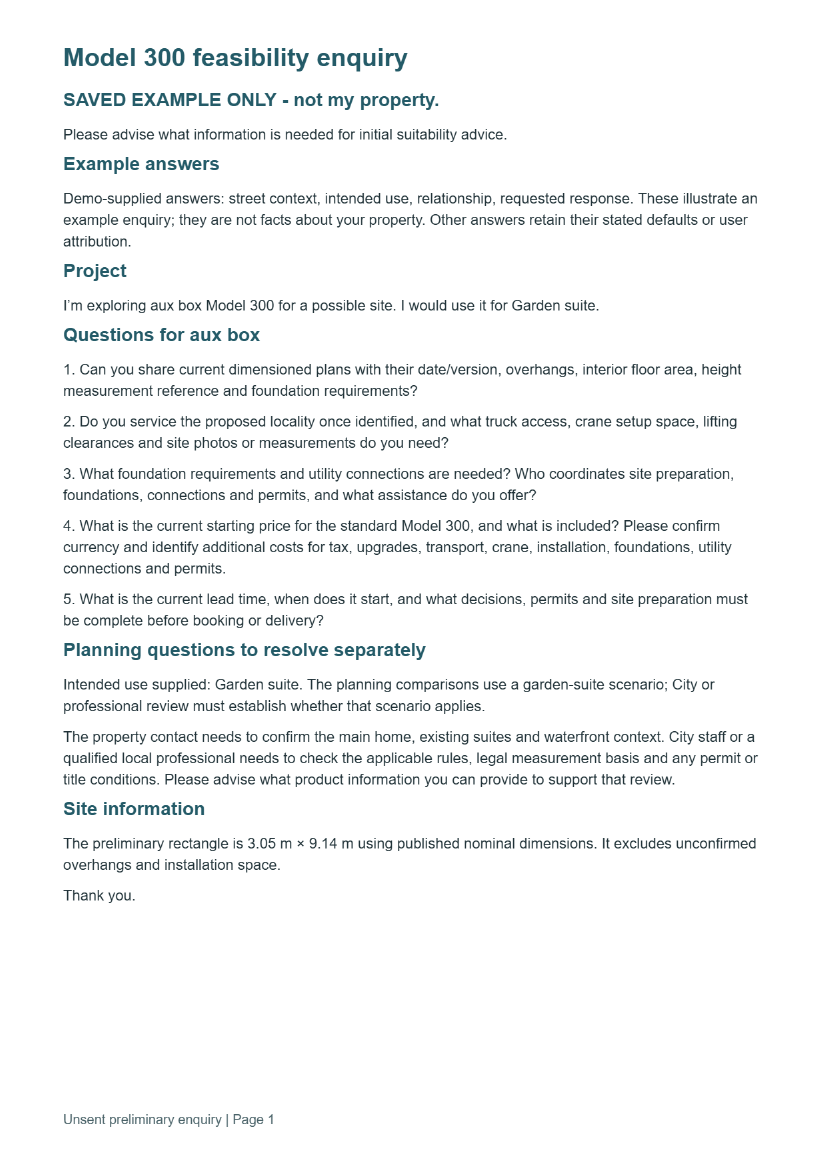
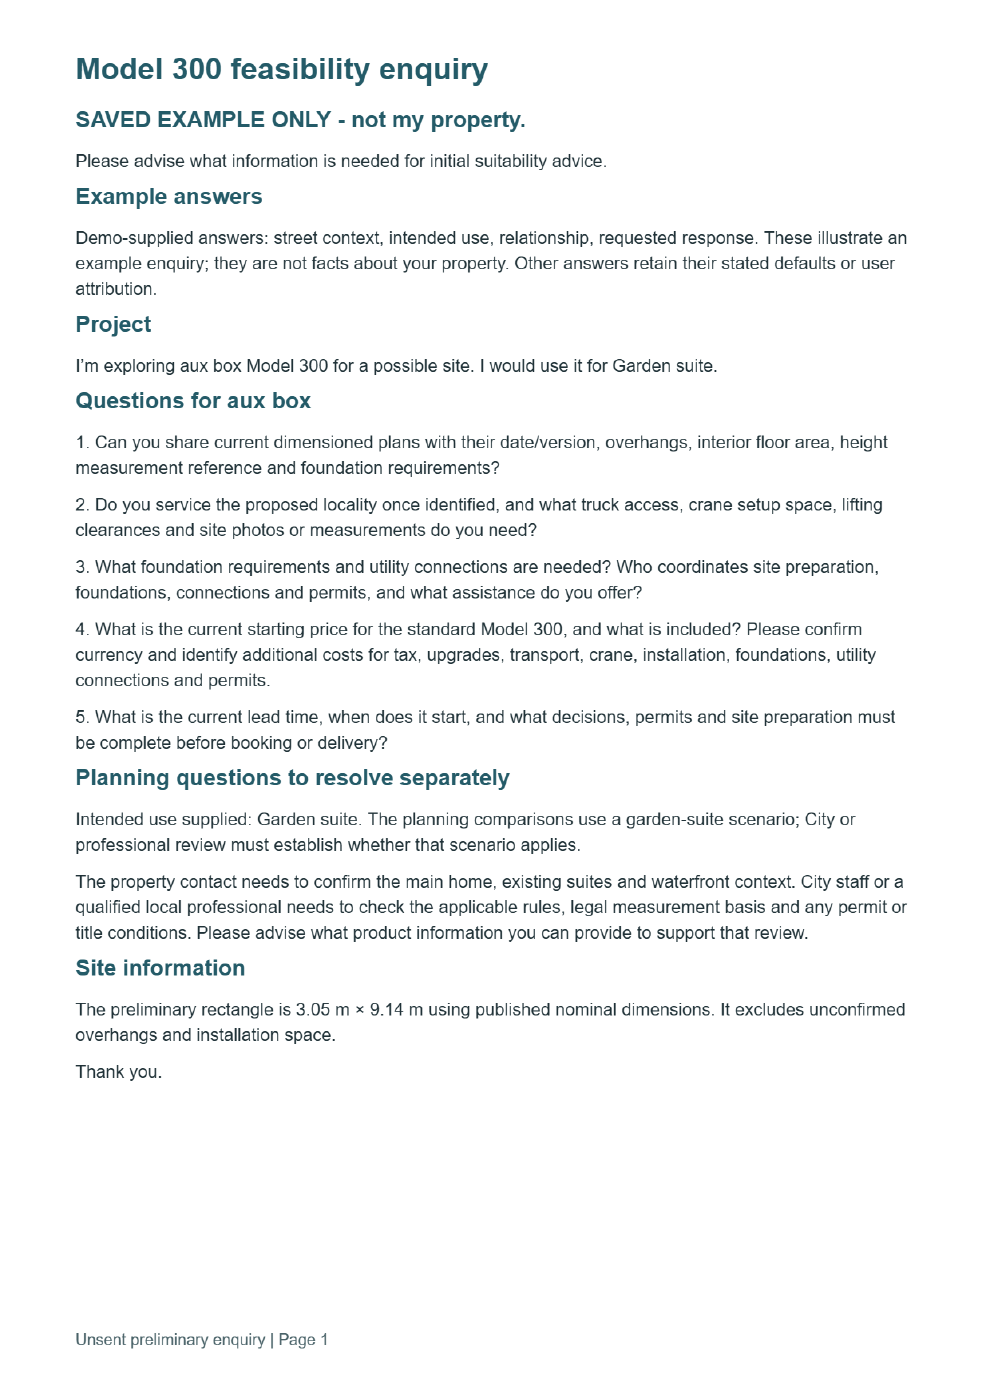
Preserve example attribution across takeover and incomplete measurements

diff --git a/frontend/src/builder_demo/BuilderDemo.tsx b/frontend/src/builder_demo/BuilderDemo.tsx
@@ -248,7 +248,7 @@ export default function BuilderDemo({ onProgressChange, presetRequest = 0, entry
   const [demoAnswers, setDemoAnswers] = useState<EnquiryInput['demoAnswers']>({})
   function clearDemoAnswer(key: 'intendedUse' | 'relationship' | 'nextStep' | 'streetContext') { setDemoAnswers(previous => { const next = { ...previous }; delete next[key]; return next }) }
   function changeIntendedUse(value: string, demo = false) { if (!demo) clearDemoAnswer('intendedUse'); if (value !== use) setReviewedPurposeFor(null); setUse(value); setProjectSettings(previous => applyIntendedUse(previous, value)); setReadyFor(null) }
-  function siteEdited() { setGeometryFailure(false); setDemoAnswers({}); setStreetDecisionFor(null); setStreetSkipTarget(null); setChecksRevealed(false); setBufferSuggestion(undefined); setMoveSuggestion(undefined); setAcknowledgedConflicts([]); setSelection(null); setImported(false); setMeasurementResult(null); setSiteAssumptions(null); setProjectSettings(applyIntendedUse(modelProjectSettings(model), use)); setGeometryPending(false); setAccess(''); setServices(''); setProjectContext(previous => ({ ...previous, relationship: '', nextStep: '' })); setQuestion(`Could ${model.name} be suitable for this property?`); setWaterfrontMarks({ revision: null, ids: [] }); setDrawingExport(null); setStreetMarks({ revision: null, data: { edge_ids: [], all_marked: false, origin: 'user' } }); setRearEdge(null); setSelectedBoundary(null); setBoundaryMark(null); setMarkingRole(null); setBoundaryMode('place'); setReadyFor(null); setRevision(value => value + 1) }
+  function siteEdited() { const retainedUse = demoAnswers?.intendedUse === use ? '' : use; setUse(retainedUse); setGeometryFailure(false); setDemoAnswers({}); setStreetDecisionFor(null); setStreetSkipTarget(null); setChecksRevealed(false); setBufferSuggestion(undefined); setMoveSuggestion(undefined); setAcknowledgedConflicts([]); setSelection(null); setImported(false); setMeasurementResult(null); setSiteAssumptions(null); setProjectSettings(applyIntendedUse(modelProjectSettings(model), retainedUse)); setGeometryPending(false); setAccess(''); setServices(''); setProjectContext(previous => ({ ...previous, relationship: '', nextStep: '' })); setQuestion(`Could ${model.name} be suitable for this property?`); setWaterfrontMarks({ revision: null, ids: [] }); setDrawingExport(null); setStreetMarks({ revision: null, data: { edge_ids: [], all_marked: false, origin: 'user' } }); setRearEdge(null); setSelectedBoundary(null); setBoundaryMark(null); setMarkingRole(null); setBoundaryMode('place'); setReadyFor(null); setRevision(value => value + 1) }
   function changeMode(next: typeof mode) {
     if (next !== 'example' && window.location.hash.startsWith('#examples/')) window.history.replaceState(null, '', '#assessment')
     setExpanded({ property: next !== 'example', placement: next === 'example', next: false, email: false })
@@ -294,6 +294,7 @@ export default function BuilderDemo({ onProgressChange, presetRequest = 0, entry
     setSiteAssumptions(previous => previous ? { ...previous, measurements: { ...previous.measurements, boundary: {}, principal_separation: null, floor_area: null } } : null)
     setProjectSettings(previous => {
       const nextSettings = applyIntendedUse(modelProjectSettings(next), use)
+      if (previous.evidence.proposed_use.origin === 'demo_supplied' && nextSettings.proposal.proposed_use === previous.proposal.proposed_use) nextSettings.evidence.proposed_use = previous.evidence.proposed_use
       return { proposal: { ...nextSettings.proposal,
         confirmed_zone: previous.proposal.confirmed_zone, confirmed_instrument: previous.proposal.confirmed_instrument,
         legal_lot_confirmed: previous.proposal.legal_lot_confirmed },
@@ -842,7 +843,7 @@ export default function BuilderDemo({ onProgressChange, presetRequest = 0, entry
     property: 'City of Victoria Parcel 87: saved, partial map outlines; this is not your property.',
     initial: 'Check the starting position against the mapped parcel and roofline.',
     moved: 'Move away from the mapped overlap. The current evaluator checks this new position.',
-    result: `${measurementResult?.result.checks.some(check => check.kind === 'containment' && check.status === 'observed' && check.relation === 'contained') && measurementResult.result.checks.filter(check => check.kind === 'building_overlap').every(check => check.status === 'observed' && check.relation === 'separate') ? 'This position avoids the mapped overlap. ' : 'Inspect the current placement findings. '}Garden suite is an example scenario. Street context stays Not sure; planning questions still need review.`,
+    result: `${measurementResult && overlapFinding(measurementResult.site, measurementResult.result).complete && !overlapFinding(measurementResult.site, measurementResult.result).conflicts.length ? 'This position avoids the mapped overlap. ' : 'Inspect the current placement findings. '}Garden suite is an example scenario. Street context stays Not sure; planning questions still need review.`,
     enquiry: 'Review this editable, unsent enquiry. The builder can advise which information to gather next.',
   }
   const playbackScrolled = useRef('')

diff --git a/docs/guided-walkthrough.md b/docs/guided-walkthrough.md
@@ -36,6 +36,8 @@ callback after unmount was reproduced in the browser and now checks its element.
 Garden suite, unknown street context, example relationship and requested response
 have `demo_supplied` attribution in technical evidence and a grouped readable note
 in enquiries/reports. Individual edits remove that answer's demo attribution.
+Changing models preserves attribution for an unchanged example intention; changing
+properties clears that example intention so it cannot become a claimed user answer.
 The garden-suite scenario origin survives the existing HTTP boundary/evaluator;
 demo origins cannot assert zoning, title or other favourable legal facts. Existing
 journey defaults and municipal observations keep their separate origins. Main-home
@@ -83,11 +85,11 @@ Final local results: 177 frontend tests passed; TypeScript/Vite build passed;
 48 focused geometry/conditional tests passed; focused Ruff and `git diff --check`
 passed. No database tests were run locally because no isolated PostgreSQL was
 configured. Vite retains its existing large-chunk advisory; FastAPI testing reports
-the existing httpx deprecation. Final normal playback completed in 56.821 seconds.
+the existing httpx deprecation. Final normal playback completed in 56.806 seconds.
 Final-head GitHub CI is a separate integration check.
 
 Observed browser run: pause/resume before advancement and during an in-flight
-measurement; skip and replay with keep/replace; failure and retry; model switch
+measurement; incomplete geometry response; skip and replay with keep/replace; failure and retry; model switch
 with a late response; property correction/manual fallback; 390 × 844 keyboard
 takeover and reduced motion; navigation exit; normal timed playback; unsent output
 and exact source evidence. The geometry reproduced about 0.7 m² outside and 1.6 m²
